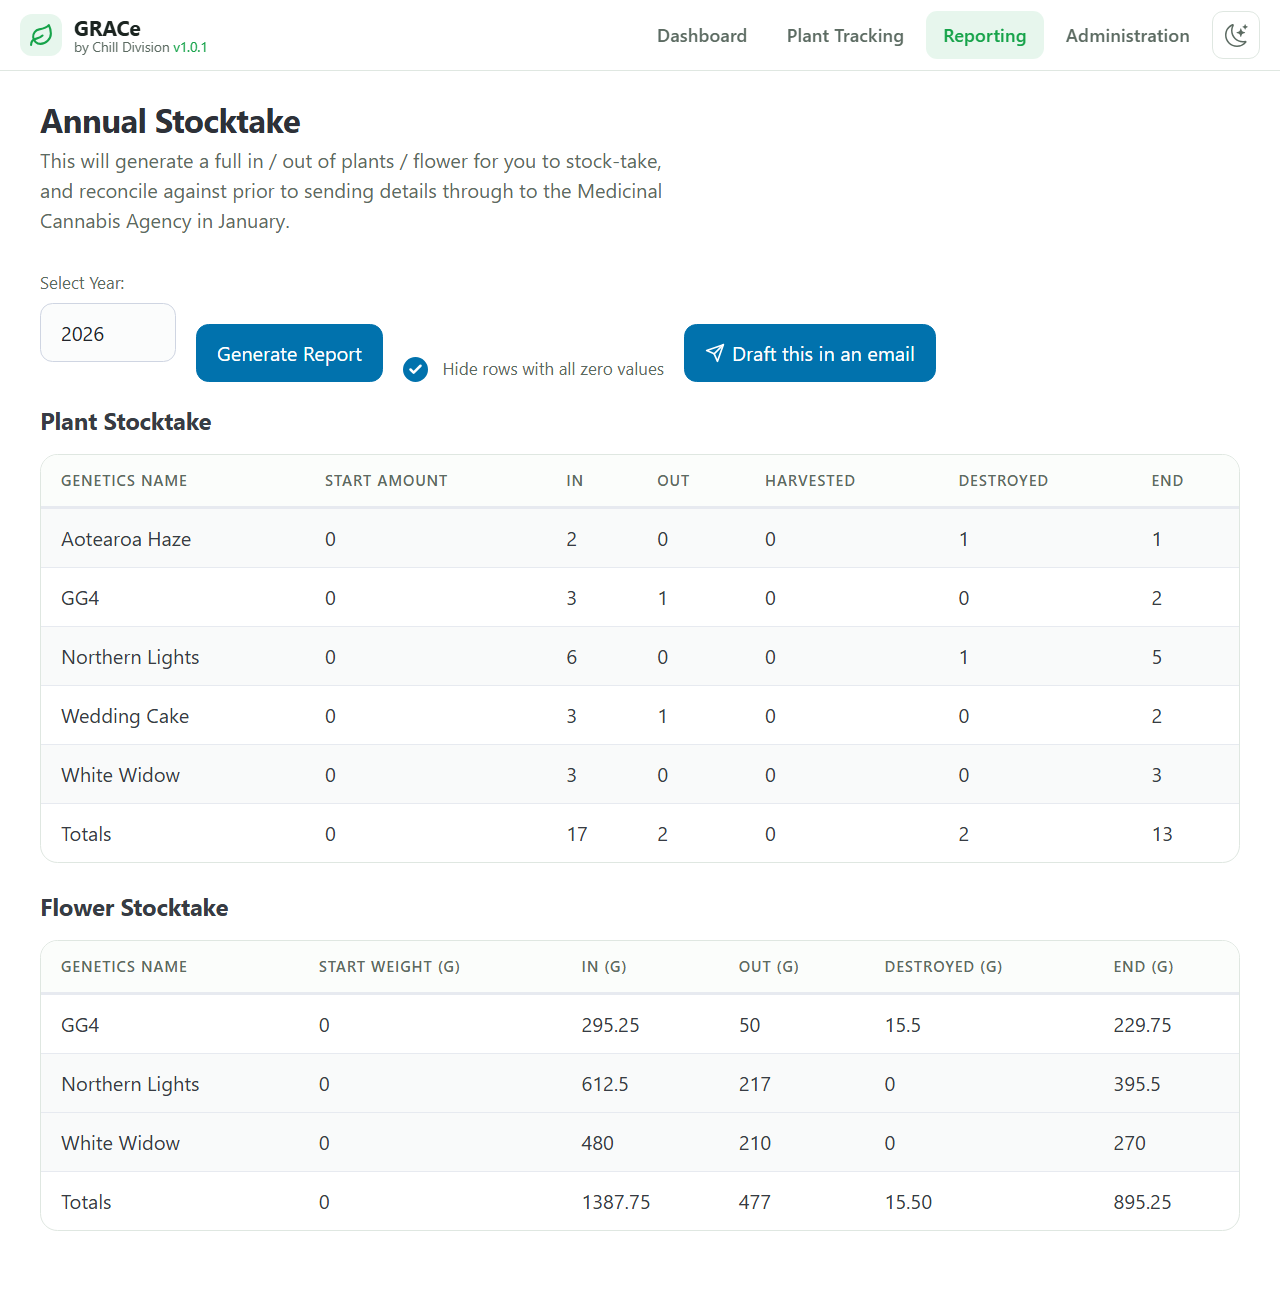
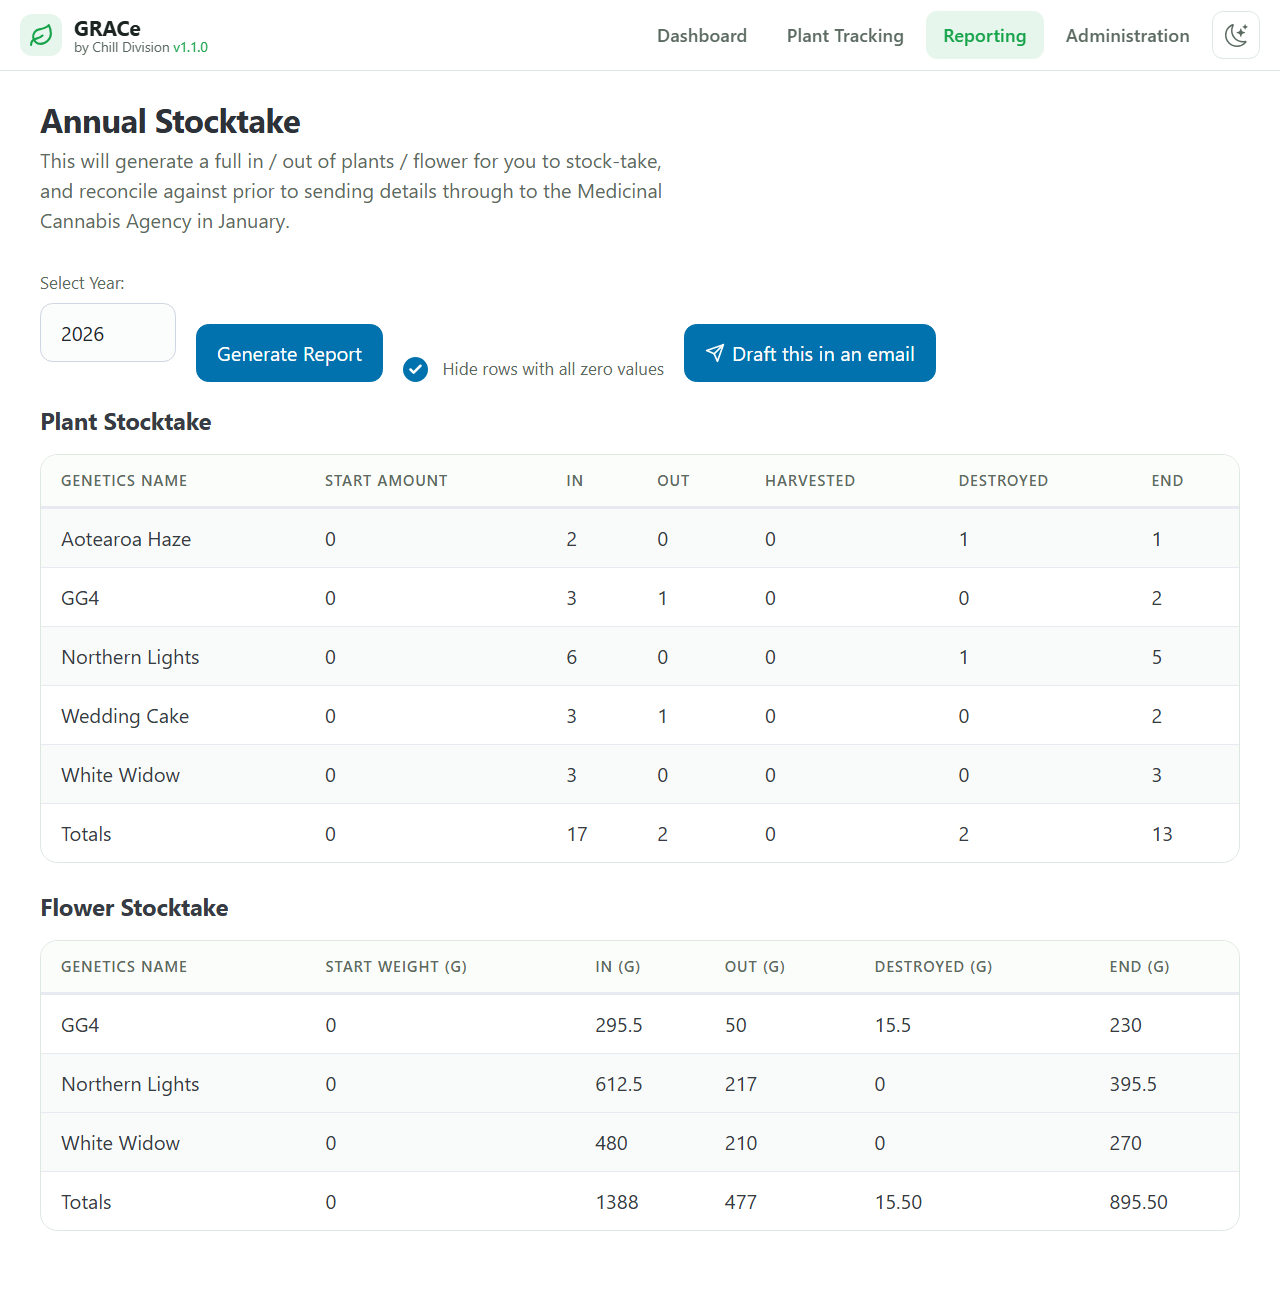
Release 1.1.0: quicker data entry, more safety nets, and important report fixes
- Version 1.1.0 in config.yaml, nav.php, CHANGELOG.md and
  GRACE_ASSET_VERSION
- The 1.1.0 changelog entry, now the house standard: AGENTS.md section 6
  describes the tone and layout, CLAUDE.md summarises it, and both note
  that the file lives at grace_addon/CHANGELOG.md and only reaches the
  add-on because the Dockerfile copies it in
- All 25 screenshots refreshed, plus What's new (PC and phone) and the
  "+ Add new genetics" pop-up; the user guide gains an "After an update"
  section

diff --git a/grace_addon/files/general/www/public/nav.php b/grace_addon/files/general/www/public/nav.php
@@ -27,7 +27,7 @@ $navSections = [
                 </span>
                 <span class="nav-brand-text">
                     <strong>GRACe</strong>
-                    <span class="nav-brand-sub">by Chill Division <small>v1.0.1</small></span>
+                    <span class="nav-brand-sub">by Chill Division <small>v1.1.0</small></span>
                 </span>
             </a>
             <input type="checkbox" id="nav-toggle" class="nav-toggle">

diff --git a/grace_addon/files/general/www/public/header.php b/grace_addon/files/general/www/public/header.php
@@ -7,7 +7,7 @@
  *   $useJquery  - set true on pages that use the jQuery document manager
  */
 if (!defined('GRACE_ASSET_VERSION')) {
-    define('GRACE_ASSET_VERSION', '1.0.1');
+    define('GRACE_ASSET_VERSION', '1.1.0');
 }
 $pageTitle = $pageTitle ?? 'GRACe';
 ?>

diff --git a/grace_addon/CHANGELOG.md b/grace_addon/CHANGELOG.md
@@ -1,3 +1,35 @@
+## [1.1.0] - 2026-09-24
+Quicker data entry, more safety nets, and some important report fixes.
+
+### What's new
+- **Add a genetics or a company without leaving the page.** Missing from the list? Choose "+ Add new genetics…" or "+ Add new company…" at the bottom of it. It's added and selected straight away, and nothing you've already typed is lost. Works on Receive plants, Record dry weight change, Harvest / Destroy / Send and Generate Shipping Manifest.
+- **See your stock while you enter.** Pick a genetics and GRACe shows how many are growing, or how much dried flower you have and what's left after this entry.
+- **Check before you save.** Receive plants and Record dry weight change now show a summary to confirm first, like Harvest / Destroy / Send already did. The ledger can't be edited afterwards, so this is your chance to catch a typo.
+- **Catch the extra zero.** Anything bigger than usual needs an extra tick before it's saved. You set what "big" means in Administration → Entry warning limits. It starts at 100 plants and 5,000 g, and we suggest about half of what one of your flower rooms holds.
+- **Recent entries.** Your last 10 entries are listed under each form, so you can check what you just did and spot anything entered twice.
+- **Clear confirmations.** After saving, GRACe tells you exactly what was recorded, and how many plants are now growing or how much flower is left.
+- **Early license renewals.** A license can now be uploaded with an expiry date up to 15 months away, so a renewal issued up to 3 months early goes straight in.
+
+### Important fixes
+- **Last month's report shows the right month.** On the 29th, 30th and 31st it used to show this month's figures under last month's heading, and "Draft this in an email" would have sent them.
+- **Times are now NZ time.** GRACe used to save times in UTC, 12 or 13 hours behind NZ, so anything recorded before about 1pm on the 1st of a month counted towards the month before. Updating corrects your older entries too. A few may move into the month they really happened in, so an older monthly report you open again can differ slightly from the one you sent.
+- **Flower can't go below zero.** Record dry weight change won't subtract more flower than you have on record. Shipping manifests already worked this way.
+- **Plants can't be processed twice.** If some plants were already processed, for example in another tab or on another device, Harvest / Destroy / Send changes nothing and shows you the current list, so old entries can't be overwritten.
+- **Company names with apostrophes or quotes**, like Joe's Farm, are saved and shown properly, including in Agency emails. Names saved by older versions are repaired automatically.
+
+### Changes
+- Plant counts are whole numbers, and one entry can add up to 1,000 plants. Split anything bigger into a few entries.
+- Weights are grams to one decimal place, like 612.5 g.
+- Adding a genetics spots near-duplicates, so the same name typed with different capitals or extra spaces isn't added twice.
+- On shipping manifests, an external company is no longer picked for you. Choose it from the list.
+- The unused Breeder and Genetic Lineage fields are gone. Anything you had filled in is kept in your records.
+- The user guide now explains setting up Home Assistant backups, which are your real backup. "Download backup" is only for an extra copy, for example for an auditor.
+
+### Minor bug fixes and reliability improvements
+- A double tap can't save an entry twice, and plants are received all at once or not at all.
+- Messages about problems stay on screen until you've read them, and forms keep what you typed.
+- Clearer wording, like "Marked 5 plants as sent to …" on Harvest / Destroy / Send, plus other small fixes.
+
 ## [1.0.1] - 2026-09-08
 ### Fixes
 - Downloads on your phone now have the right file name. A license (or any other document) downloaded through the Home Assistant app used to show up as "download.php". It now saves with its proper name, like "cultivation-license-2026.pdf".

diff --git a/AGENTS.md b/AGENTS.md
@@ -106,18 +106,52 @@ an update: `performMigrations()` in `init_db.php` runs on every request.
 - New behaviour gets a regression test wired into `tests/run_ci.sh`, and
   `TESTING.md` stays in step with the suite.
 - Releases bump the version in `config.yaml`, `nav.php`, the top
-  `CHANGELOG.md` heading, and `GRACE_ASSET_VERSION` in `header.php`. See the
-  release checklist in DEVELOPMENT.md.
+  `CHANGELOG.md` heading, and `GRACE_ASSET_VERSION` in `header.php`, and add
+  a changelog entry written the way section 6 describes. See the release
+  checklist in DEVELOPMENT.md.
 
 ## 5. Writing for users
 
 - Changelogs, the user guide (`grace_addon/DOCS.md`) and on-screen text are
   read by growers, not developers. Keep it short and plain: say what changed
   for them and skip the technical detail.
-- The newest section of `grace_addon/CHANGELOG.md` is shown inside GRACe as
-  the "What's new" pop-up after an update (`whats_new_lib.php`; the
-  Dockerfile copies the file into the image). Write it for growers: what
-  changed for them first, with details, and small fixes grouped at the end.
-  Keep the `## [x.y.z] - YYYY-MM-DD` heading format, because What's new and
-  the version test both read it.
 - Don't use em-dashes anywhere. Rephrase so the sentence doesn't need one.
+
+## 6. The changelog
+
+`grace_addon/CHANGELOG.md` is read by growers in two places: Home
+Assistant's add-on changelog, and GRACe's own "What's new" pop-up, which
+shows the newest entry the first time anyone opens the updated add-on
+(`whats_new_lib.php`). **The 1.1.0 entry is the standard.** Match its tone
+and layout:
+
+- Heading `## [x.y.z] - YYYY-MM-DD`, newest entry at the top.
+- One plain sentence summing up the release.
+- Then these sections, in this order, leaving out any that would be empty:
+  - `### What's new`: each feature is a bullet that starts with a bold
+    sentence saying what the grower gets, followed by a line or two on how
+    to use it and where to find it.
+  - `### Important fixes`: bold lead-in, then what used to go wrong and what
+    it means for them now. Mention anything that changes their existing
+    records or reports.
+  - `### Changes`: behaviour that's different now, one plain line each.
+  - `### Minor bug fixes and reliability improvements`: small things,
+    grouped into two or three short bullets. Only say "performance" if
+    something really got faster.
+- What's new shows about the first 10 lines before "Show more…", so put
+  what matters most to growers first.
+- Write for growers: what changed for them, not how. No file names,
+  functions or tables. Use neutral examples ("Joe's Farm"), never strain
+  names or real customer data.
+- What's new only renders `### ` headings, `- ` bullets, `**bold**` and
+  `` `code` ``. Everything else shows as plain text.
+
+Two things that are easy to get wrong:
+
+- The file lives at `grace_addon/CHANGELOG.md`, not the repository root.
+- The add-on image only gets `files/general` and `files/php83` copied in,
+  so the Dockerfile copies the changelog separately
+  (`COPY CHANGELOG.md /www/CHANGELOG.md`). Without that line What's new
+  silently shows nothing. `whats_new_lib.php` looks in the image first, then
+  in the repository (for development and tests), and
+  `tests/test_whats_new.php` checks both.

diff --git a/grace_addon/DOCS.md b/grace_addon/DOCS.md
@@ -53,6 +53,8 @@ New genetics that isn't in the list yet? Choose **"+ Add new genetics…"** at t
 
 <img src="https://raw.githubusercontent.com/Chill-Division/GRACe_repo/main/docs/screenshots/desktop-receive-plants.png" alt="Receive plants form" width="900">
 
+<img src="https://raw.githubusercontent.com/Chill-Division/GRACe_repo/main/docs/screenshots/desktop-add-new-genetics.png" alt="Adding a new genetics without leaving the page" width="900">
+
 ## Flower coming in
 
 Once harvested plants have dried, weigh the flower and record it: Plant Tracking → **"Record dry weight change"**, choose the genetics, enter the weight in grams (to one decimal place, like 612.5), choose **Add**, and pick the reason **Harvest**. That weight is now in your dried-flower inventory.
@@ -159,11 +161,18 @@ Your ledger and every document you've uploaded live inside the GRACe add-on, so 
 
 Administration → **"Download backup"** is only for an extra, ad-hoc copy, for example to hand to an auditor. It contains your ledger but not the uploaded documents themselves (licenses, Chain of Custody photos and so on), and GRACe can't restore from it. Never use it as your main backup.
 
+# After an update
+
+The first time anyone opens GRACe after it updates, a **"What's new"** summary pops up, once for everyone. Long notes start folded: tap "Show more…" to read the lot, then "Got it" when you're done. Missed it, or want to read it again? Administration → **"What's new"** shows it any time.
+
+<img src="https://raw.githubusercontent.com/Chill-Division/GRACe_repo/main/docs/screenshots/desktop-whats-new.png" alt="The What's new pop-up after an update" width="900">
+
+<img src="https://raw.githubusercontent.com/Chill-Division/GRACe_repo/main/docs/screenshots/mobile-whats-new.png" alt="What's new on a phone" width="300">
+
 # Good to know
 
 - **Recent entries.** Receive plants, Record dry weight change and Harvest / Destroy / Send each list your last 10 entries under the form, newest first. Check there if you think something went in twice.
 - **Fixing a mistake.** History can't be edited, so correct it with another entry. Recorded 10 clones but only took 8? Process the 2 extras as destroyed. Typed 250 g instead of 25 g? Subtract 225 g with the reason Other and a note saying why. The correction is part of your record too.
-- **What's new.** After GRACe updates, the first person to open it sees a short "What's new" summary, once for everyone. Long notes start folded, so tap "Show more…" to read the lot. Missed it, or want to read it again? Administration → **"What's new"** shows it any time.
 - **Light or dark.** The sun/moon button in the top right switches themes, and GRACe remembers your choice.
 - **Phone tip.** Everything in this guide works from the Home Assistant app on your phone, so record harvests and sends while you're standing in the room.
 - **Times are NZ time.** Before version 1.1, GRACe saved plant and flower times in UTC, which is 12 or 13 hours behind NZ, so anything recorded before about 1pm on the 1st of a month counted towards the month before. Updating to 1.1 corrects the old entries as well. A few of them move into the month they really happened in, so an older monthly report you open again can differ slightly from the one you sent at the time.

diff --git a/DEVELOPMENT.md b/DEVELOPMENT.md
@@ -128,11 +128,16 @@ Also bump `GRACE_ASSET_VERSION` in
 `grace_addon/files/general/www/public/header.php` so browsers pick up new
 CSS/JS.
 
-The new `CHANGELOG.md` section is what growers see in the "What's new"
-pop-up the first time anyone opens the updated add-on, so write it for them
-(see AGENTS.md). To see the pop-up locally, seed with `--legacy` (it behaves
-like an upgraded install) and open any page. A normal seed behaves like a
-new install, which never shows it.
+The new `grace_addon/CHANGELOG.md` section is what growers see in the
+"What's new" pop-up the first time anyone opens the updated add-on, so write
+it for them, modelled on the 1.1.0 entry (AGENTS.md section 6 has the
+standard). To see the pop-up locally, seed with `--legacy` (it behaves like
+an upgraded install) and open any page. A normal seed behaves like a new
+install, which never shows it.
+
+If the release changes how pages look, refresh the screenshots in
+`docs/screenshots/` too: the user guide and README use them, and every one
+shows the version number in the menu.
 
 ## Rules
 

diff --git a/CLAUDE.md b/CLAUDE.md
@@ -4,3 +4,15 @@ Claude Code reads this file automatically. The project rules live in
 AGENTS.md so every AI tool works from the same copy:
 
 @AGENTS.md
+
+## The changelog, in short
+
+AGENTS.md section 6 has the full standard. The points that matter most:
+
+- `grace_addon/CHANGELOG.md` (not the repository root) is what growers see
+  in GRACe's "What's new" pop-up after an update. Write every entry like the
+  1.1.0 one: a one-line summary, then What's new, Important fixes, Changes,
+  and Minor bug fixes and reliability improvements, most important first.
+- Keep the `## [x.y.z] - YYYY-MM-DD` heading, and keep the Dockerfile's
+  `COPY CHANGELOG.md /www/CHANGELOG.md` line. The add-on image doesn't
+  include the changelog otherwise, and What's new would show nothing.
